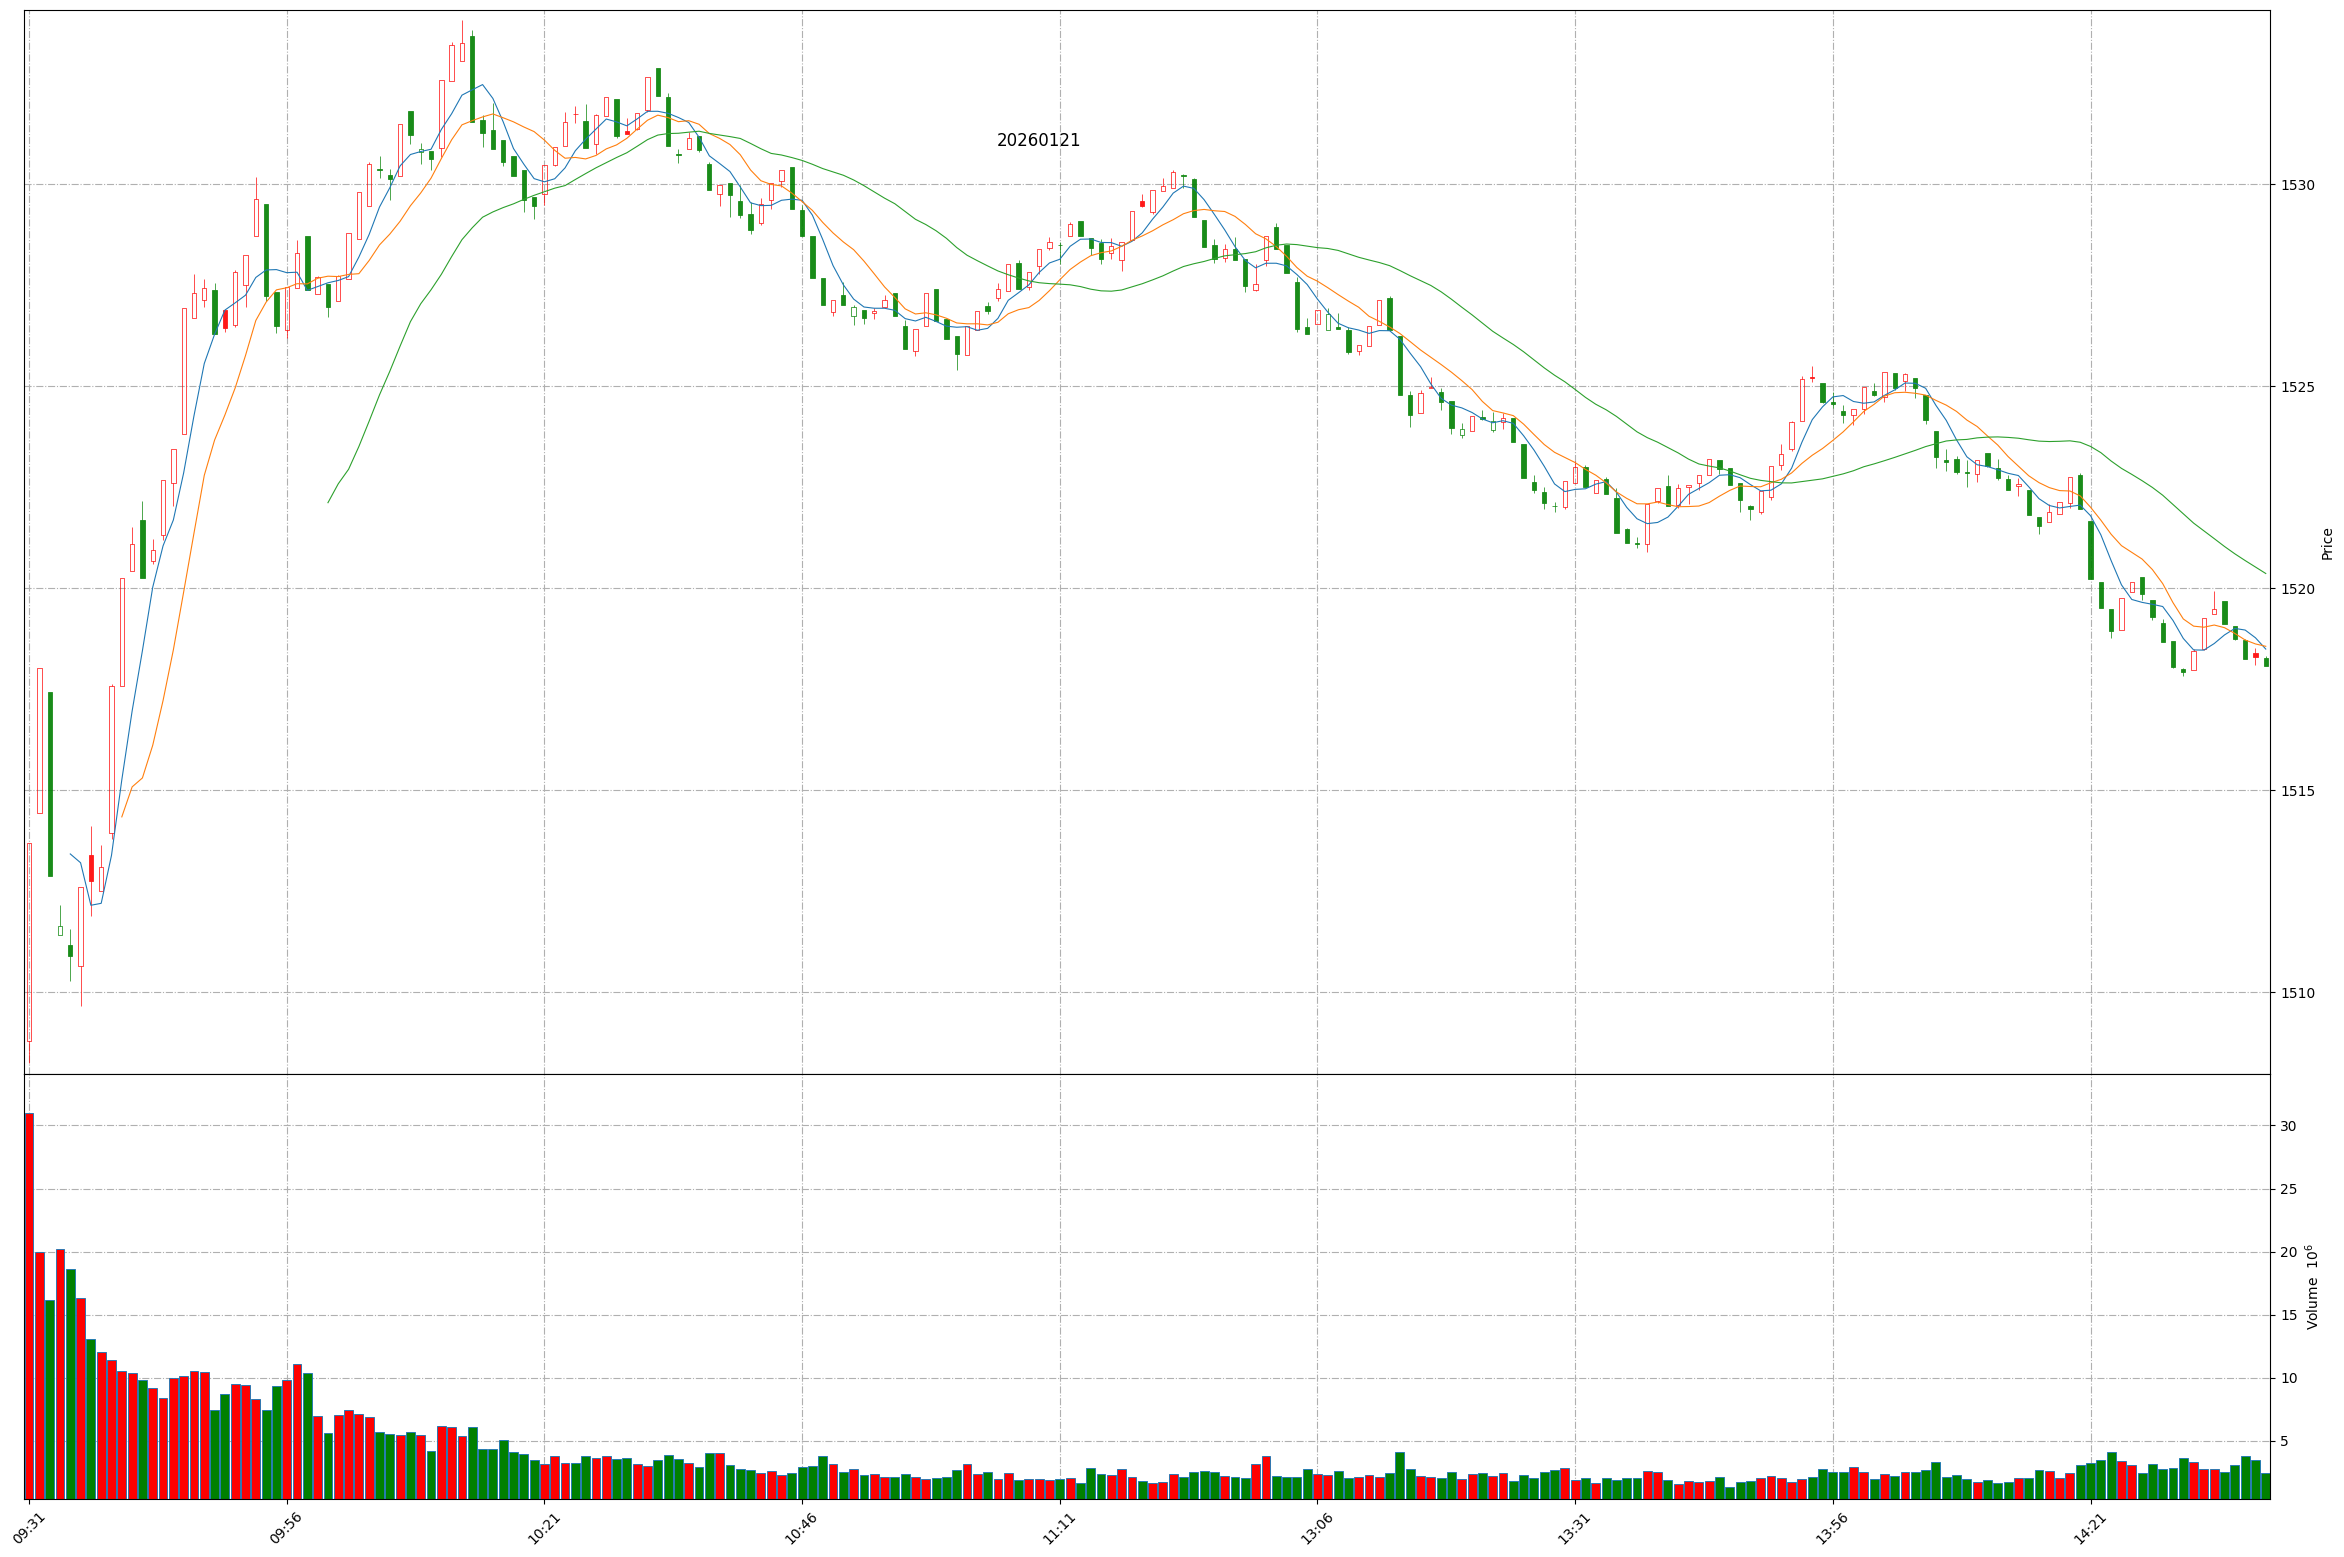
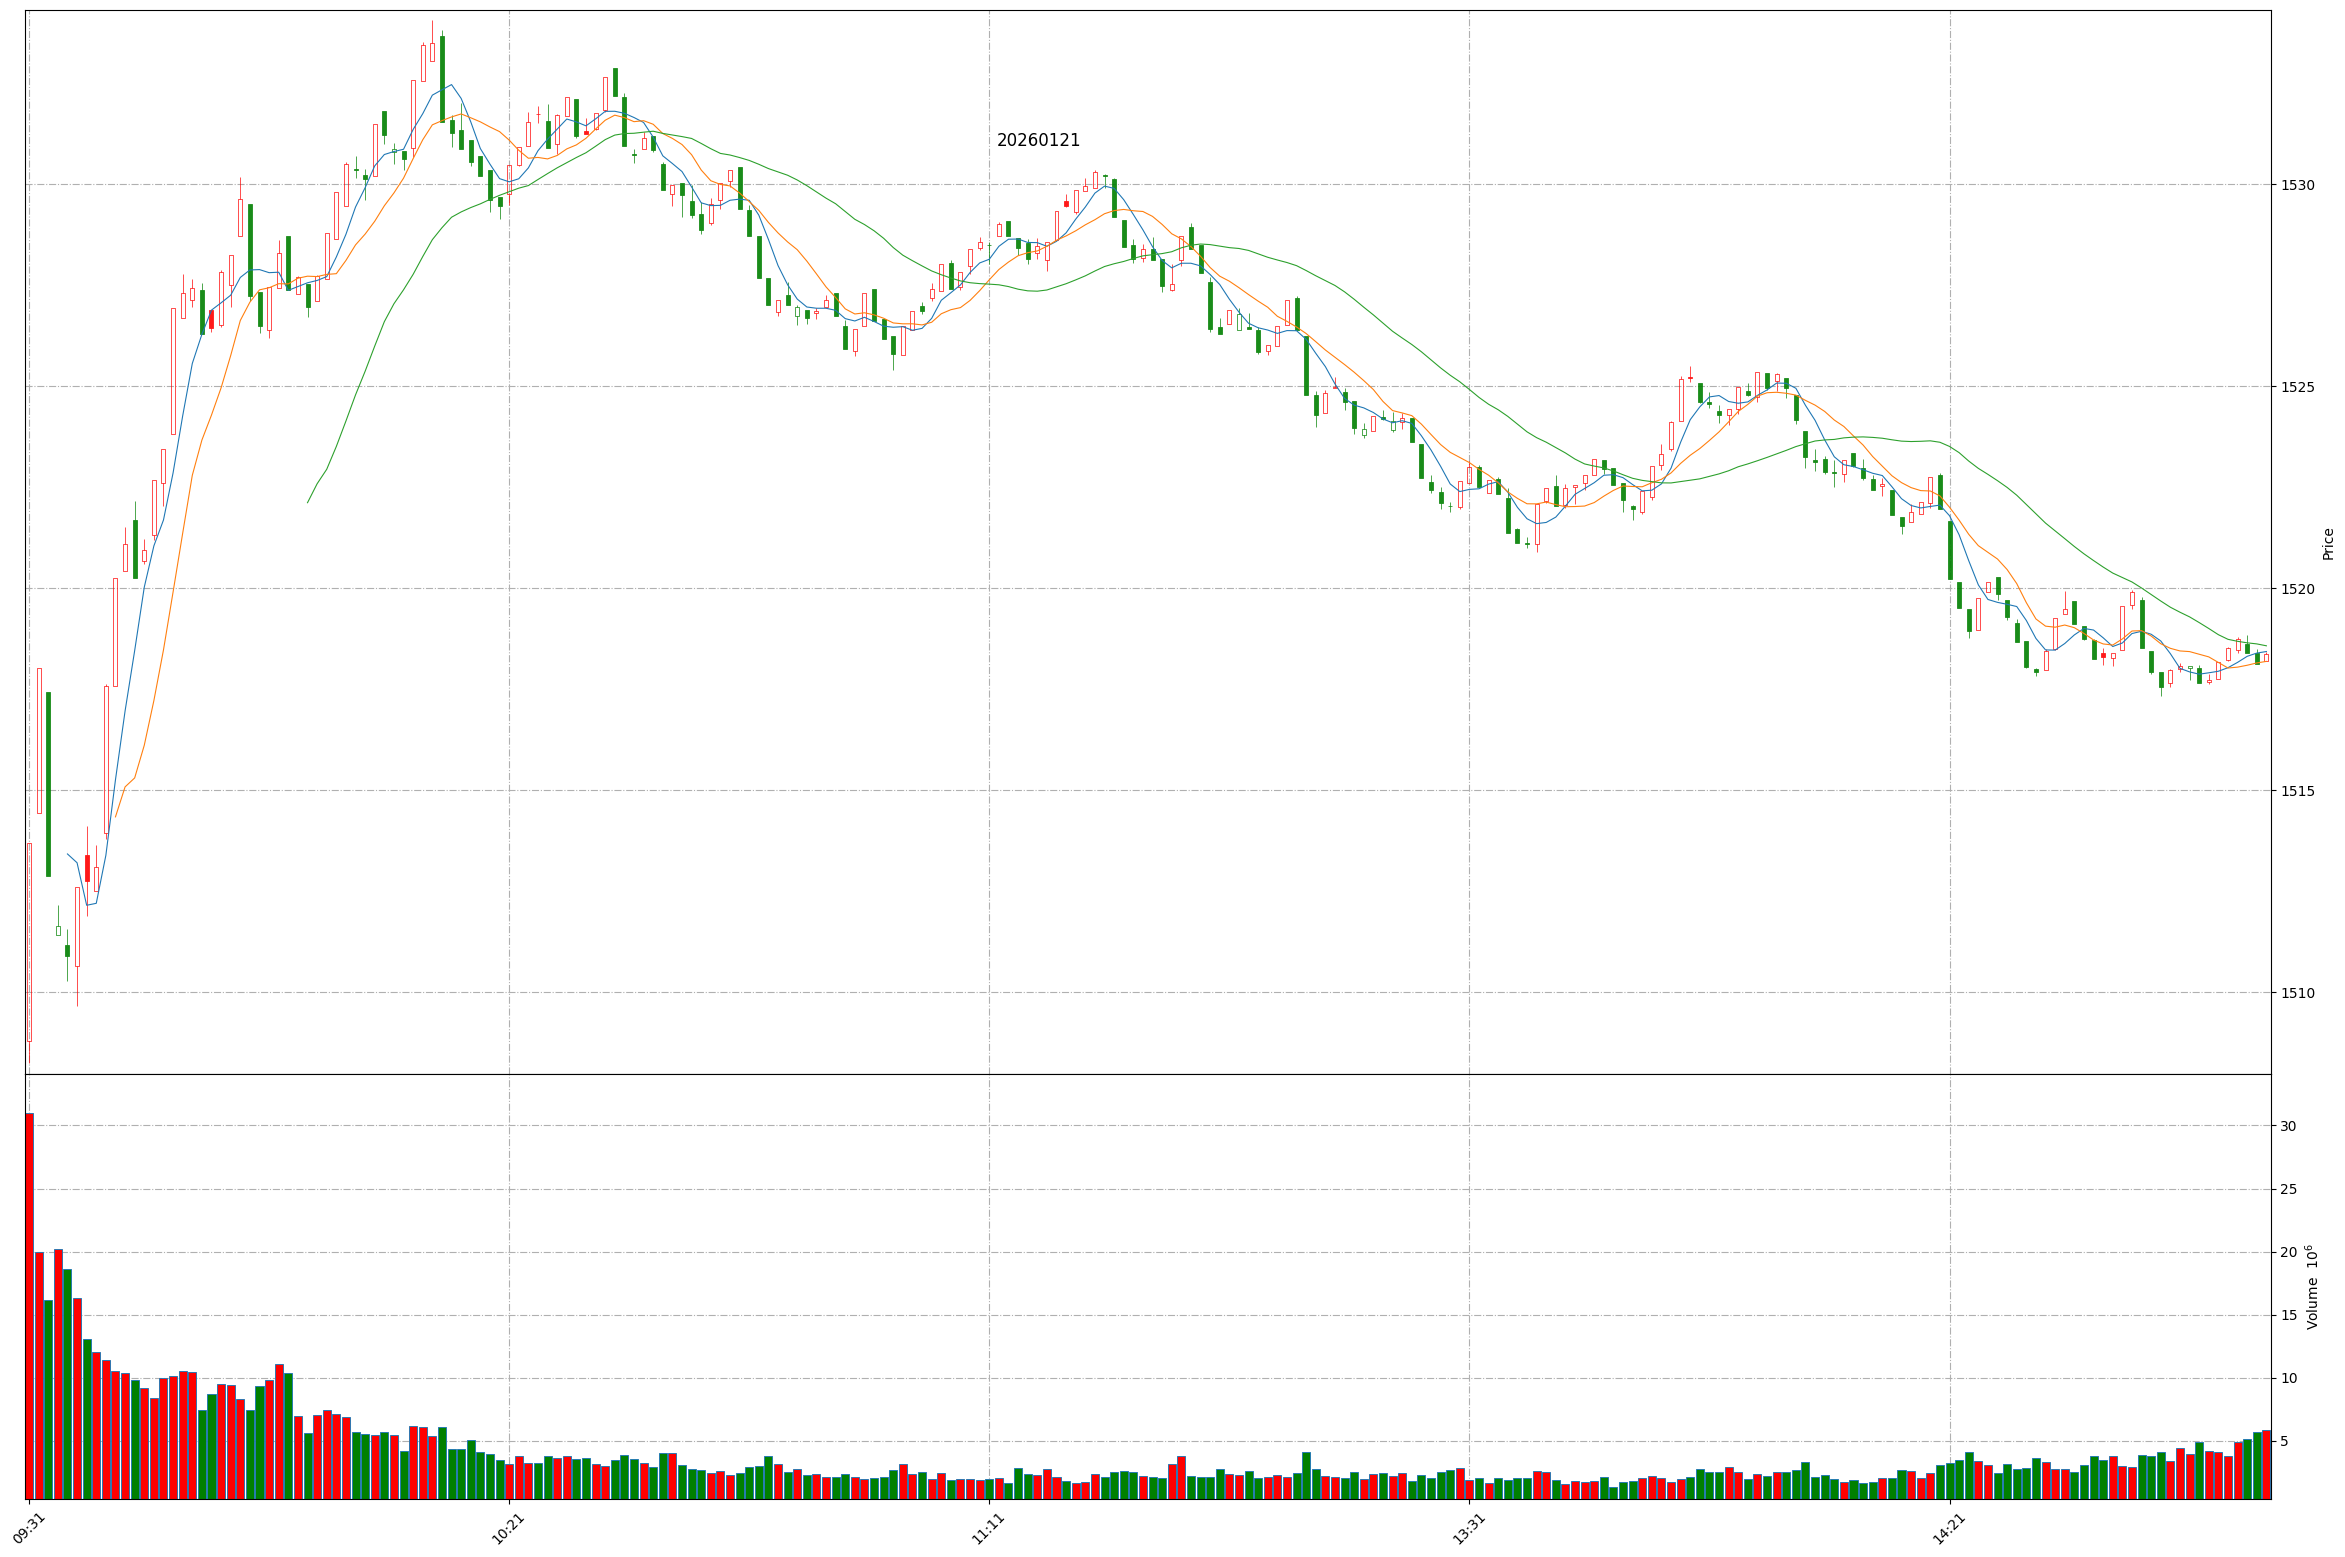
Github action update at 2026-01-21 14:54:13.

Changed region(s): [[0.0311, 0.0308, 0.9654, 0.4316], [0.0, 0.8015, 0.9966, 0.9865], [0.0, 0.4008, 0.0623, 0.5857]]

diff --git a/README.md b/README.md
@@ -1,11 +1,11 @@
 
 # Daily-A-share-market-quotes 每日 A 股指数（5min 更新）- 20260121
 
-### 上证指数 20260121 14:37
+### 上证指数 20260121 14:54
 ![](./fig/2026/1/20260121-sh000001.png)
 
-### 深证成指 20260121 14:37
+### 深证成指 20260121 14:54
 ![](./fig/2026/1/20260121-sz399001.png)
 
-### 北证50 20260121 14:37
+### 北证50 20260121 14:54
 ![](./fig/2026/1/20260121-bj899050.png)
